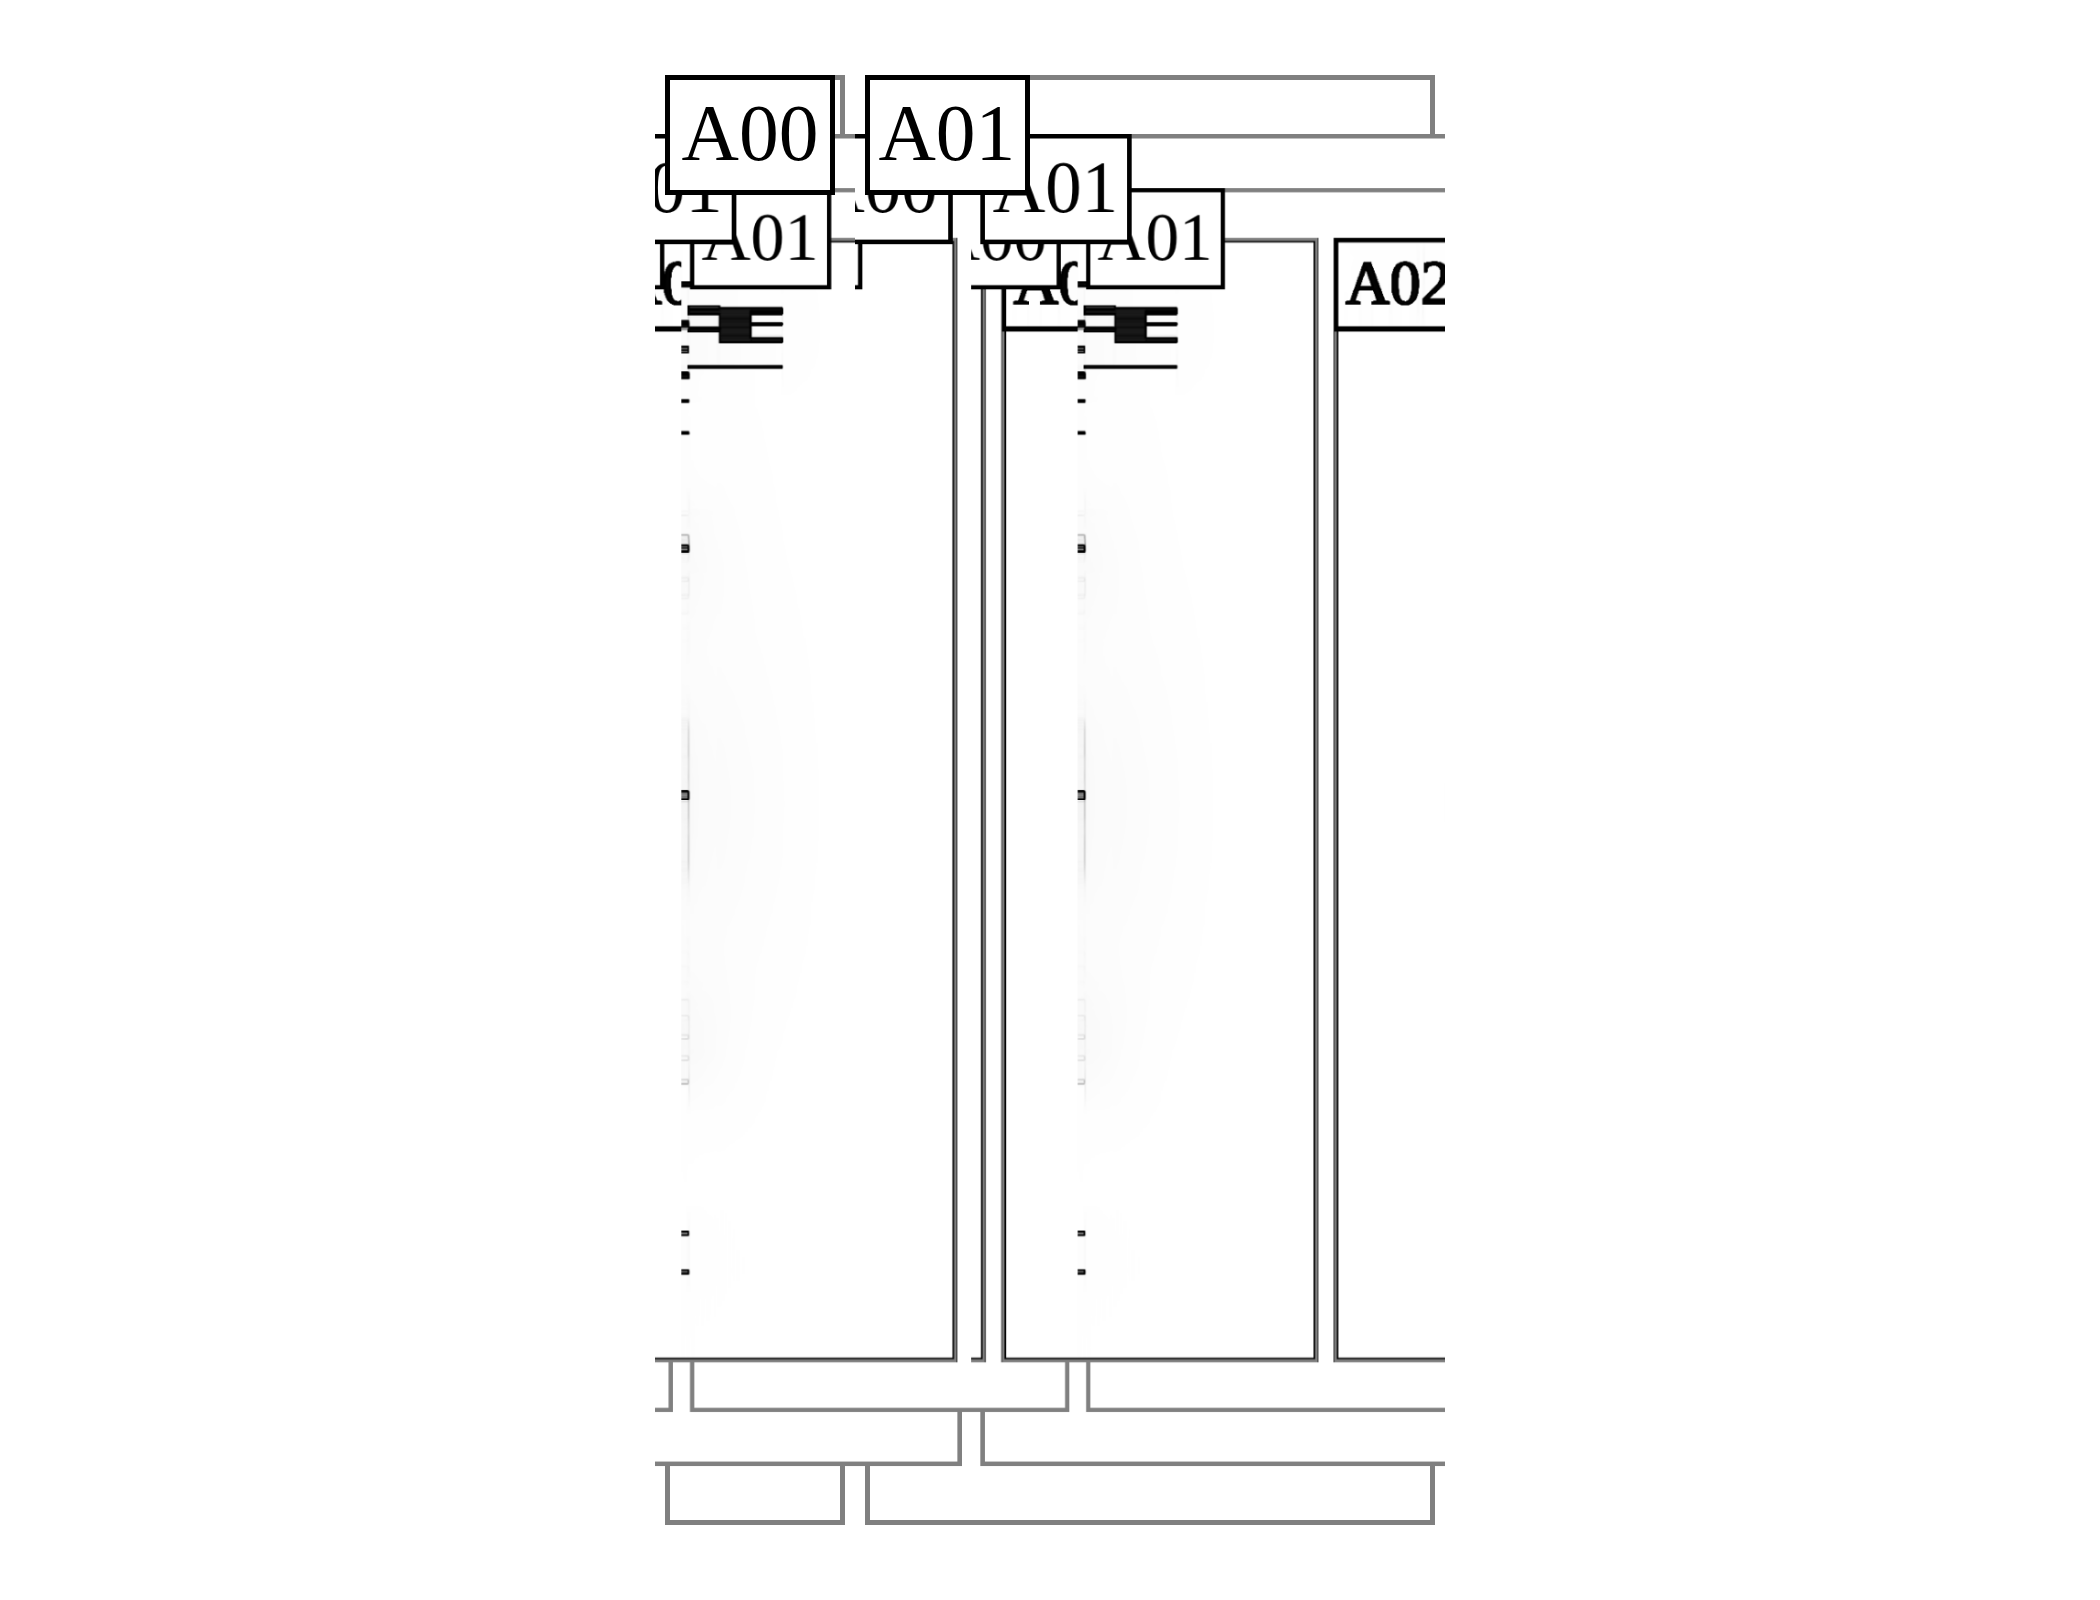
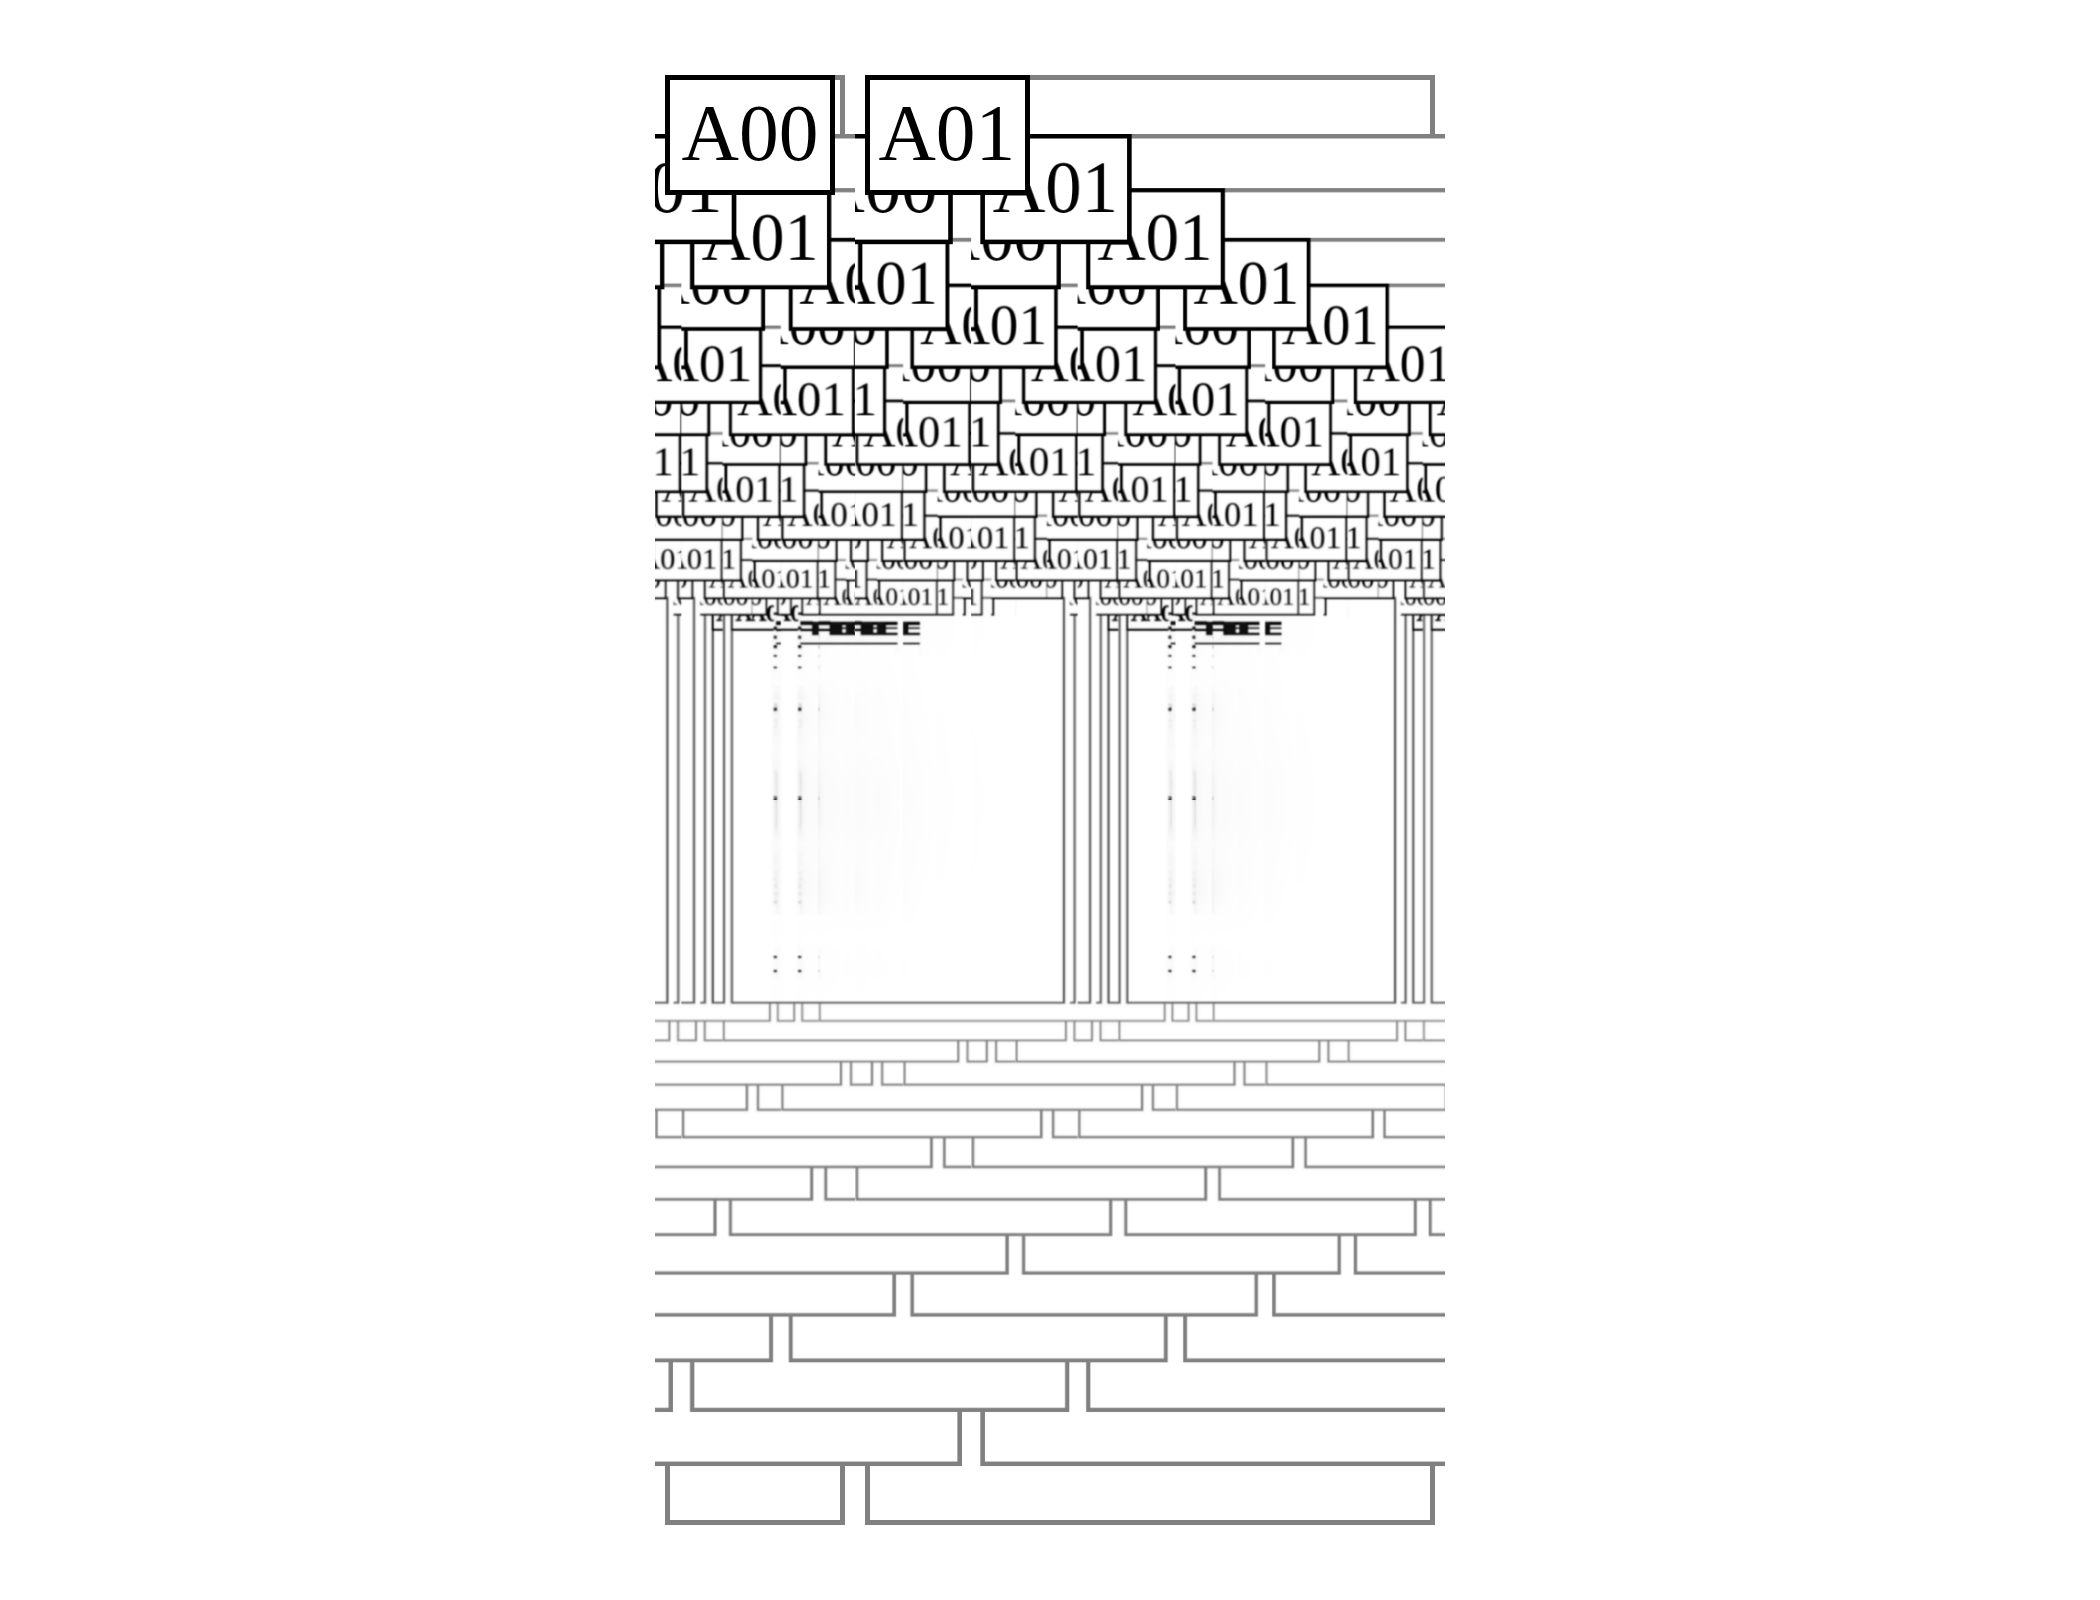
refactor folder structure

Changed region(s): [[0.3095, 0.125, 0.7119, 0.8438], [0.3405, 0.8125, 0.4024, 0.8438]]

diff --git a/Fontend/scripts.js b/Fontend/scripts.js
@@ -704,8 +704,8 @@ window.h11 = async l => {
         await h12([l6,l2]); }
     if (l6 >= 1) {
         await h9(l2); }
-        k2.innerHTML = '';
-        k2.appendChild(k14);
+        // k2.innerHTML = '';
+        // k2.appendChild(k14);
     return [k14.toDataURL(),l[1]]};
 
 window.h12 = l => {

diff --git a/Backend/script.py b/Backend/script.py
@@ -23,16 +23,15 @@ def make_news(value):
         "CSS PADDING-RIGHT. Lorem ipsum dolor sit amet.",
         "CSS PADDING-TOP. Lorem ipsum dolor sit amet.",
         "CSS PADDING-BOTTOM. Lorem ipsum dolor sit amet.",
-        "CSS BACKGROUND-COLOR. Lorem ipsum dolor sit amet.",
-        "CSS STYLE COLOR. Lorem ipsum dolor sit amet.",
-        "CSS ALIGN-ITEMS. Lorem ipsum dolor sit amet.",
-        "CSS TEXT-ALIGN. Lorem ipsum dolor sit amet.",
-        "CSS TEXT-DECORATION. Lorem ipsum dolor sit amet.",
-        "CSS FONT-WEIGHT. Lorem ipsum dolor sit amet.",
-        "CSS FONT-SIZE LINE-HEIGHT. Lorem ipsum dolor sit amet.",
-        "CSS FONT-FACE. Lorem ipsum dolor sit amet.",
-        "HTML SPAN ENTITY. Lorem ipsum dolor sit amet."]] * 601)
-    elif value == "Content":
+        "CSS BACKGROUND-ORIGIN. Lorem ipsum dolor sit amet.",
+        "CSS BACKGROUND-SIZE. Lorem ipsum dolor sit amet. => contain, auto, 100%",
+        "CSS BACKGROUND-POSITION. Lorem ipsum dolor sit amet. => top, left, right, bottom, angle nw, angle sw, angle ne, angle se",
+        "CSS BACKGROUND-POSITION. Lorem ipsum dolor sit amet.",
+        "CSS BACKGROUND-POSITION. Lorem ipsum dolor sit amet.",
+        "CSS BACKGROUND-SIZE. Lorem ipsum dolor sit amet.",
+        "CSS BACKGROUND-SIZE. Lorem ipsum dolor sit amet.",
+        "CSS BACKGROUND-IMAGE. Lorem ipsum dolor sit amet."]] * 601)
+    elif value == "Text":
         return ([[
         "VARIOUS PROPERTIES. Lorem ipsum dolor sit amet.",
         "CSS PADDING-LEFT. Lorem ipsum dolor sit amet.",
@@ -41,9 +40,9 @@ def make_news(value):
         "CSS PADDING-BOTTOM. Lorem ipsum dolor sit amet.",
         "CSS BACKGROUND-COLOR. Lorem ipsum dolor sit amet.",
         "CSS STYLE COLOR. Lorem ipsum dolor sit amet.",
-        "CSS ALIGN-ITEMS. Lorem ipsum dolor sit amet.",
-        "CSS TEXT-ALIGN. Lorem ipsum dolor sit amet.",
-        "CSS TEXT-DECORATION. Lorem ipsum dolor sit amet.",
+        "CSS ALIGN-SELF. Lorem ipsum dolor sit amet. => start, end, center, stretch",
+        "CSS TEXT-ALIGN. Lorem ipsum dolor sit amet. => left, center, right, justify",
+        "CSS TEXT-DECORATION. Lorem ipsum dolor sit amet. => both, over, under",
         "CSS FONT-WEIGHT. Lorem ipsum dolor sit amet.",
         "CSS FONT-SIZE LINE-HEIGHT. Lorem ipsum dolor sit amet.",
         "CSS FONT-FACE. Lorem ipsum dolor sit amet.",
@@ -52,27 +51,39 @@ def make_news(value):
 def make_news_0(value):
     if value == "Image":
         return ([[[""],
-                  ["00","px",""],
-                  ["00","px",""],
-                  ["00","unclear",""],
-                  ["00","list 6","cover"],
-                  ["00","list 3","contain"],
-                  ["00","path",""]]]
+                  ["00","px","10"],
+                  ["00","px","10"],
+                  ["00","px","10"],
+                  ["00","px","10"],
+                  ["00","boolean","false"],
+                  ["00","list 3","cover"],
+                  ["00","list 8","center"],
+                  ["00","px,px",""],
+                  ["00","%,%",""],
+                  ["00","px,px",""],
+                  ["00","%,%",""],
+                  ["00","png",""]]]
                     + [[[""],
-                  [f"{i0}{i:02d}","px",""],
-                  [f"{i0}{i:02d}","px",""],
-                  [f"{i0}{i:02d}","unclear",""],
-                  [f"{i0}{i:02d}","list 6","cover"],
-                  [f"{i0}{i:02d}","list 3","contain"],
-                  [f"{i0}{i:02d}","path",""]]
+                    [f"{i0}{i:02d}","px","10"],
+                    [f"{i0}{i:02d}","px","10"],
+                    [f"{i0}{i:02d}","px","10"],
+                    [f"{i0}{i:02d}","px","10"],
+                    [f"{i0}{i:02d}","boolean","false"],
+                    [f"{i0}{i:02d}","list 3","cover"],
+                    [f"{i0}{i:02d}","list 8","center"],
+                    [f"{i0}{i:02d}","px,px",""],
+                    [f"{i0}{i:02d}","%,%",""],
+                    [f"{i0}{i:02d}","px,px",""],
+                    [f"{i0}{i:02d}","%,%", ""],
+                    [f"{i0}{i:02d}","png",""]]
                     for i0 in "ABCDEF"
                     for i in range(100)])
-    elif value == "Content":
+    elif value == "Text":
         return ([[[""],
-                  ["00","px",""],
-                  ["00","px",""],
-                  ["00", "px",""],
-                  ["00", "px",""],
+                  ["00","px","10"],
+                  ["00","px","10"],
+                  ["00","px","10"],
+                  ["00","px","10"],
                   ["00","#hex",""],
                   ["00","#hex",""],
                   ["00","list 4","auto"],
@@ -80,19 +91,21 @@ def make_news_0(value):
                   ["00","list 3","none"],
                   ["00","1-9","4"],
                   ["00","px,px","16"],
-                  ["00","path",""],
+                  ["00","otf",""],
                   ["00","text",""]]]
                 + [[[""],
-                    [f"{i0}{i:02d}","px",""],
-                    [f"{i0}{i:02d}","px",""],
-                    [f"{i0}{i:02d}","px",""],
-                    [f"{i0}{i:02d}","px",""],
+                    [f"{i0}{i:02d}","px","10"],
+                    [f"{i0}{i:02d}","px","10"],
+                    [f"{i0}{i:02d}","px","10"],
+                    [f"{i0}{i:02d}","px","10"],
+                    [f"{i0}{i:02d}","#hex",""],
+                    [f"{i0}{i:02d}","#hex",""],
                     [f"{i0}{i:02d}","list 4","auto"],
                     [f"{i0}{i:02d}","list 4","auto"],
                     [f"{i0}{i:02d}","list 3","none"],
                     [f"{i0}{i:02d}","1-9","4"],
                     [f"{i0}{i:02d}","px,px","16"],
-                    [f"{i0}{i:02d}","path",""],
+                    [f"{i0}{i:02d}","otf",""],
                     [f"{i0}{i:02d}","text",""]]
                     for i0 in "ABCDEF"
                     for i in range(100)])

diff --git a/Backend/builds.py b/Backend/builds.py
@@ -31,10 +31,10 @@ class TableApp(Widget):
         self.full_IDs = self.app.store["4-0"]
         self.turi = ['activated', 'deactivated']
         self.turis = ['visible', 'hidden']
-        self.lister = [9, 100, 301, 300, 6, 6]
+        self.lister = [9, 100, 301, 300, 12, 13]
         self.listers = [28, 22, 18, 18, 14, 14]
         self.check_only = [8,8,8,7,7,7]
-        self.check_only0 = [7,7,7,7,7,62]
+        self.check_only0 = [8,8,8,8,8,8,8,8,8,8,8,30,60]
 
     def on_mount(self) -> None:
         self.f_left = self.query_one("#cont-switch-0")

diff --git a/readme.md b/readme.md
@@ -301,125 +301,125 @@ Lorem ipsum dolor sit amet, consetetur sadipscing elitr, sed diam nonumy eirmod 
 
 <table>
   <tr>
-    <td><a href="Backend/template/1745003993.png">
-    <img src="Backend/template/1745003993.png">
+    <td><a href="Backend/module/1745003993.png">
+    <img src="Backend/module/1745003993.png">
     </a></td>
-    <td><a href="Backend/template/1745003866.png">
-    <img src="Backend/template/1745003866.png">
+    <td><a href="Backend/module/1745003866.png">
+    <img src="Backend/module/1745003866.png">
     </a></td>
-    <td><a href="Backend/template/1745003804.png">
-    <img src="Backend/template/1745003804.png">
+    <td><a href="Backend/module/1745003804.png">
+    <img src="Backend/module/1745003804.png">
     </a></td>
-    <td><a href="Backend/template/1745003726.png">
-    <img src="Backend/template/1745003726.png">
+    <td><a href="Backend/module/1745003726.png">
+    <img src="Backend/module/1745003726.png">
     </a></td>
-    <td><a href="Backend/template/1745003613.png">
-    <img src="Backend/template/1745003613.png">
+    <td><a href="Backend/module/1745003613.png">
+    <img src="Backend/module/1745003613.png">
     </a></td>
-    <td><a href="Backend/template/1745003563.png">
-    <img src="Backend/template/1745003563.png">
-    </a></td>
-  </tr>
-  <tr>
-    <td><a href="Backend/template/1745003407.png">
-    <img src="Backend/template/1745003407.png">
-    </a></td>
-    <td><a href="Backend/template/1745003074.png">
-    <img src="Backend/template/1745003074.png">
-    </a></td>
-    <td><a href="Backend/template/1745002977.png">
-    <img src="Backend/template/1745002977.png">
-    </a></td>
-    <td><a href="Backend/template/1745002888.png">
-    <img src="Backend/template/1745002888.png">
-    </a></td>
-    <td><a href="Backend/template/1745002495.png">
-    <img src="Backend/template/1745002495.png">
-    </a></td>
-    <td><a href="Backend/template/1744168809.png">
-    <img src="Backend/template/1744168809.png">
+    <td><a href="Backend/module/1745003563.png">
+    <img src="Backend/module/1745003563.png">
     </a></td>
   </tr>
   <tr>
-    <td><a href="Backend/template/1744168798.png">
-    <img src="Backend/template/1744168798.png">
+    <td><a href="Backend/module/1745003407.png">
+    <img src="Backend/module/1745003407.png">
     </a></td>
-    <td><a href="Backend/template/1744168791.png">
-    <img src="Backend/template/1744168791.png">
+    <td><a href="Backend/module/1745003074.png">
+    <img src="Backend/module/1745003074.png">
     </a></td>
-    <td><a href="Backend/template/1744168777.png">
-    <img src="Backend/template/1744168777.png">
+    <td><a href="Backend/module/1745002977.png">
+    <img src="Backend/module/1745002977.png">
     </a></td>
-    <td><a href="Backend/template/1744168764.png">
-    <img src="Backend/template/1744168764.png">
+    <td><a href="Backend/module/1745002888.png">
+    <img src="Backend/module/1745002888.png">
     </a></td>
-    <td><a href="Backend/template/1744168743.png">
-    <img src="Backend/template/1744168743.png">
+    <td><a href="Backend/module/1745002495.png">
+    <img src="Backend/module/1745002495.png">
     </a></td>
-    <td><a href="Backend/template/1744168733.png">
-    <img src="Backend/template/1744168733.png">
-    </a></td>
-  </tr>
-  <tr>
-    <td><a href="Backend/template/1744168727.png">
-    <img src="Backend/template/1744168727.png">
-    </a></td>
-    <td><a href="Backend/template/1744168722.png">
-    <img src="Backend/template/1744168722.png">
-    </a></td>
-    <td><a href="Backend/template/1744168599.png">
-    <img src="Backend/template/1744168599.png">
-    </a></td>
-    <td><a href="Backend/template/1744168593.png">
-    <img src="Backend/template/1744168593.png">
-    </a></td>
-    <td><a href="Backend/template/1744168591.png">
-    <img src="Backend/template/1744168591.png">
-    </a></td>
-    <td><a href="Backend/template/1744168589.png">
-    <img src="Backend/template/1744168589.png"">
+    <td><a href="Backend/module/1744168809.png">
+    <img src="Backend/module/1744168809.png">
     </a></td>
   </tr>
   <tr>
-    <td><a href="Backend/template/1744168586.png">
-    <img src="Backend/template/1744168586.png">
+    <td><a href="Backend/module/1744168798.png">
+    <img src="Backend/module/1744168798.png">
     </a></td>
-    <td><a href="Backend/template/1744168580.png">
-    <img src="Backend/template/1744168580.png">
+    <td><a href="Backend/module/1744168791.png">
+    <img src="Backend/module/1744168791.png">
     </a></td>
-    <td><a href="Backend/template/1744168563.png">
-    <img src="Backend/template/1744168563.png">
+    <td><a href="Backend/module/1744168777.png">
+    <img src="Backend/module/1744168777.png">
     </a></td>
-    <td><a href="Backend/template/1744168542.png">
-    <img src="Backend/template/1744168542.png">
+    <td><a href="Backend/module/1744168764.png">
+    <img src="Backend/module/1744168764.png">
     </a></td>
-    <td><a href="Backend/template/1744168532.png">
-    <img src="Backend/template/1744168532.png">
+    <td><a href="Backend/module/1744168743.png">
+    <img src="Backend/module/1744168743.png">
     </a></td>
-    <td><a href="Backend/template/1744168518.png">
-    <img src="Backend/template/1744168518.png">
+    <td><a href="Backend/module/1744168733.png">
+    <img src="Backend/module/1744168733.png">
+    </a></td>
+  </tr>
+  <tr>
+    <td><a href="Backend/module/1744168727.png">
+    <img src="Backend/module/1744168727.png">
+    </a></td>
+    <td><a href="Backend/module/1744168722.png">
+    <img src="Backend/module/1744168722.png">
+    </a></td>
+    <td><a href="Backend/module/1744168599.png">
+    <img src="Backend/module/1744168599.png">
+    </a></td>
+    <td><a href="Backend/module/1744168593.png">
+    <img src="Backend/module/1744168593.png">
+    </a></td>
+    <td><a href="Backend/module/1744168591.png">
+    <img src="Backend/module/1744168591.png">
+    </a></td>
+    <td><a href="Backend/module/1744168589.png">
+    <img src="Backend/module/1744168589.png"">
+    </a></td>
+  </tr>
+  <tr>
+    <td><a href="Backend/module/1744168586.png">
+    <img src="Backend/module/1744168586.png">
+    </a></td>
+    <td><a href="Backend/module/1744168580.png">
+    <img src="Backend/module/1744168580.png">
+    </a></td>
+    <td><a href="Backend/module/1744168563.png">
+    <img src="Backend/module/1744168563.png">
+    </a></td>
+    <td><a href="Backend/module/1744168542.png">
+    <img src="Backend/module/1744168542.png">
+    </a></td>
+    <td><a href="Backend/module/1744168532.png">
+    <img src="Backend/module/1744168532.png">
+    </a></td>
+    <td><a href="Backend/module/1744168518.png">
+    <img src="Backend/module/1744168518.png">
     </a></td>
   </tr>
 
   <tr>
-    <td><a href="Backend/template/1744168512.png">
-    <img src="Backend/template/1744168512.png">
+    <td><a href="Backend/module/1744168512.png">
+    <img src="Backend/module/1744168512.png">
     </a></td>
-    <td><a href="Backend/template/1744168505.png">
-    <img src="Backend/template/1744168505.png">
+    <td><a href="Backend/module/1744168505.png">
+    <img src="Backend/module/1744168505.png">
     </a></td>
-    <td><a href="Backend/template/1744168452.png">
-    <img src="Backend/template/1744168452.png">
+    <td><a href="Backend/module/1744168452.png">
+    <img src="Backend/module/1744168452.png">
     </a></td>
-    <td><a href="Backend/template/1744168430.png">
-    <img src="Backend/template/1744168430.png">
+    <td><a href="Backend/module/1744168430.png">
+    <img src="Backend/module/1744168430.png">
     </a></td>
-    <td><a href="Backend/template/1744168424.png">
-    <img src="Backend/template/1744168424.png">
+    <td><a href="Backend/module/1744168424.png">
+    <img src="Backend/module/1744168424.png">
     </a></td>
-    <td><a href="Backend/template/1744168421.png">
+    <td><a href="Backend/module/1744168421.png">
     <!-- replace with bandcamp album-link !!! -->
-    <img src="Backend/template/1744168421.png">
+    <img src="Backend/module/1744168421.png">
     </a></td>
   </tr>
 </table>